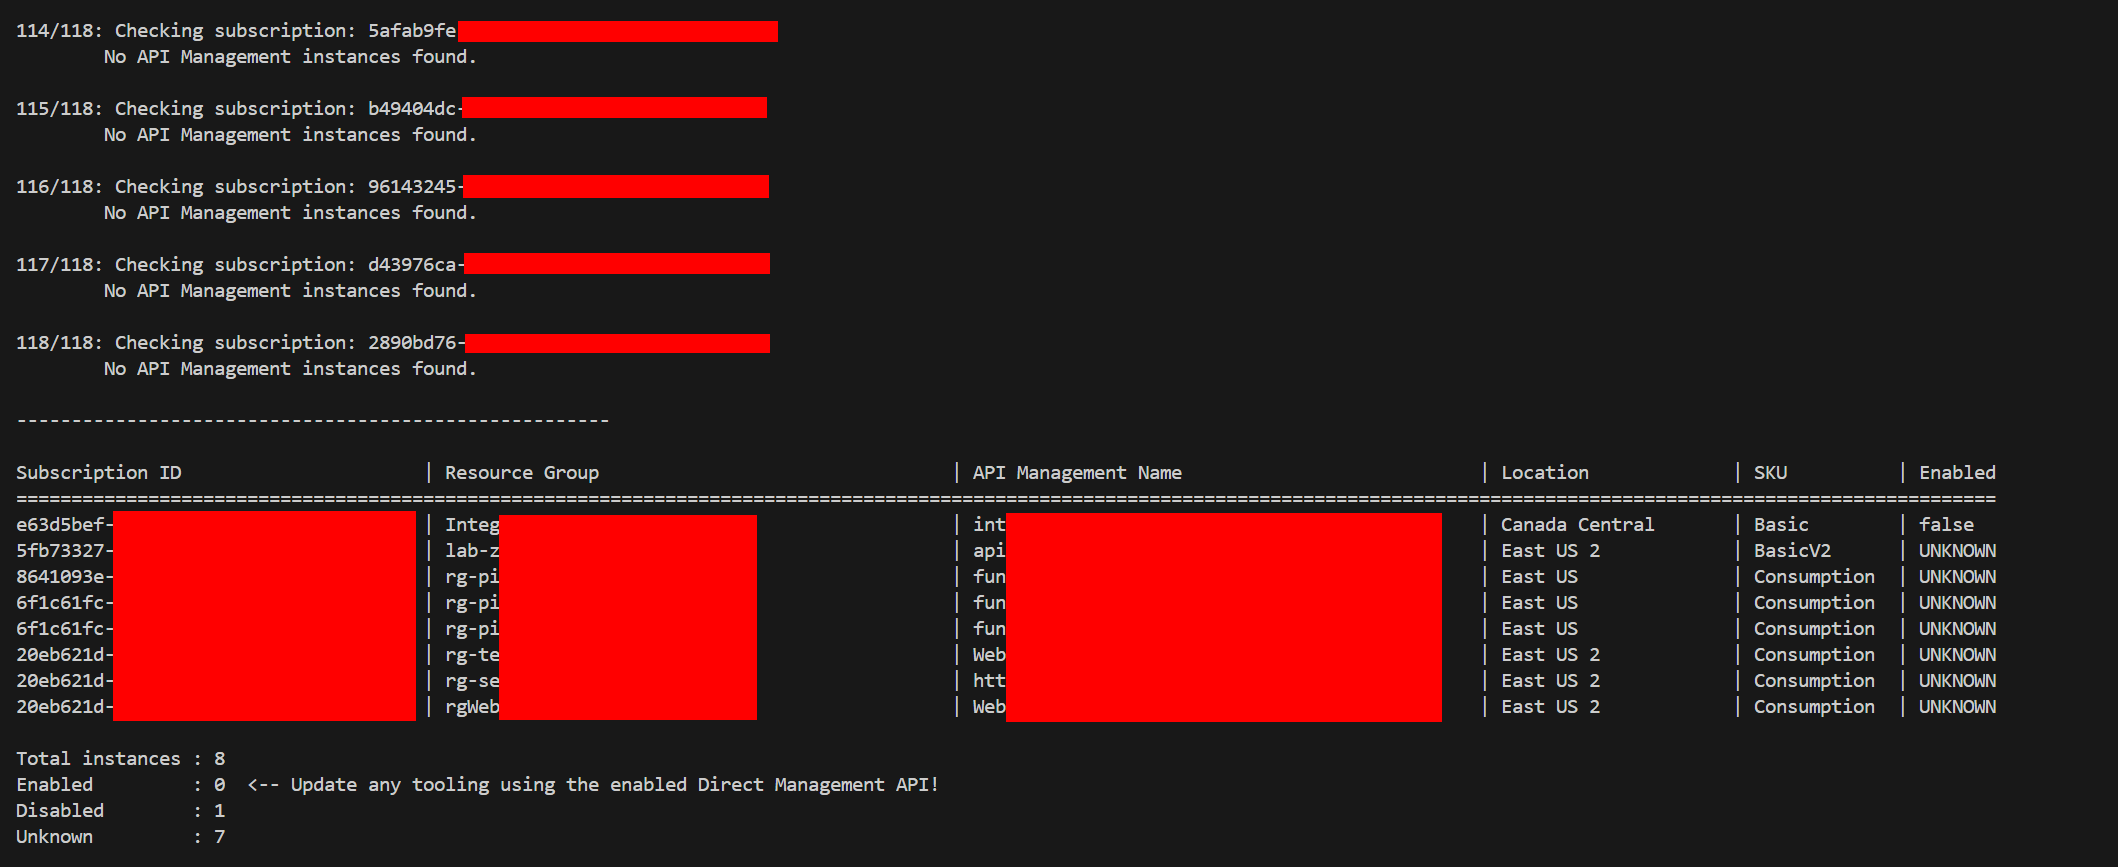
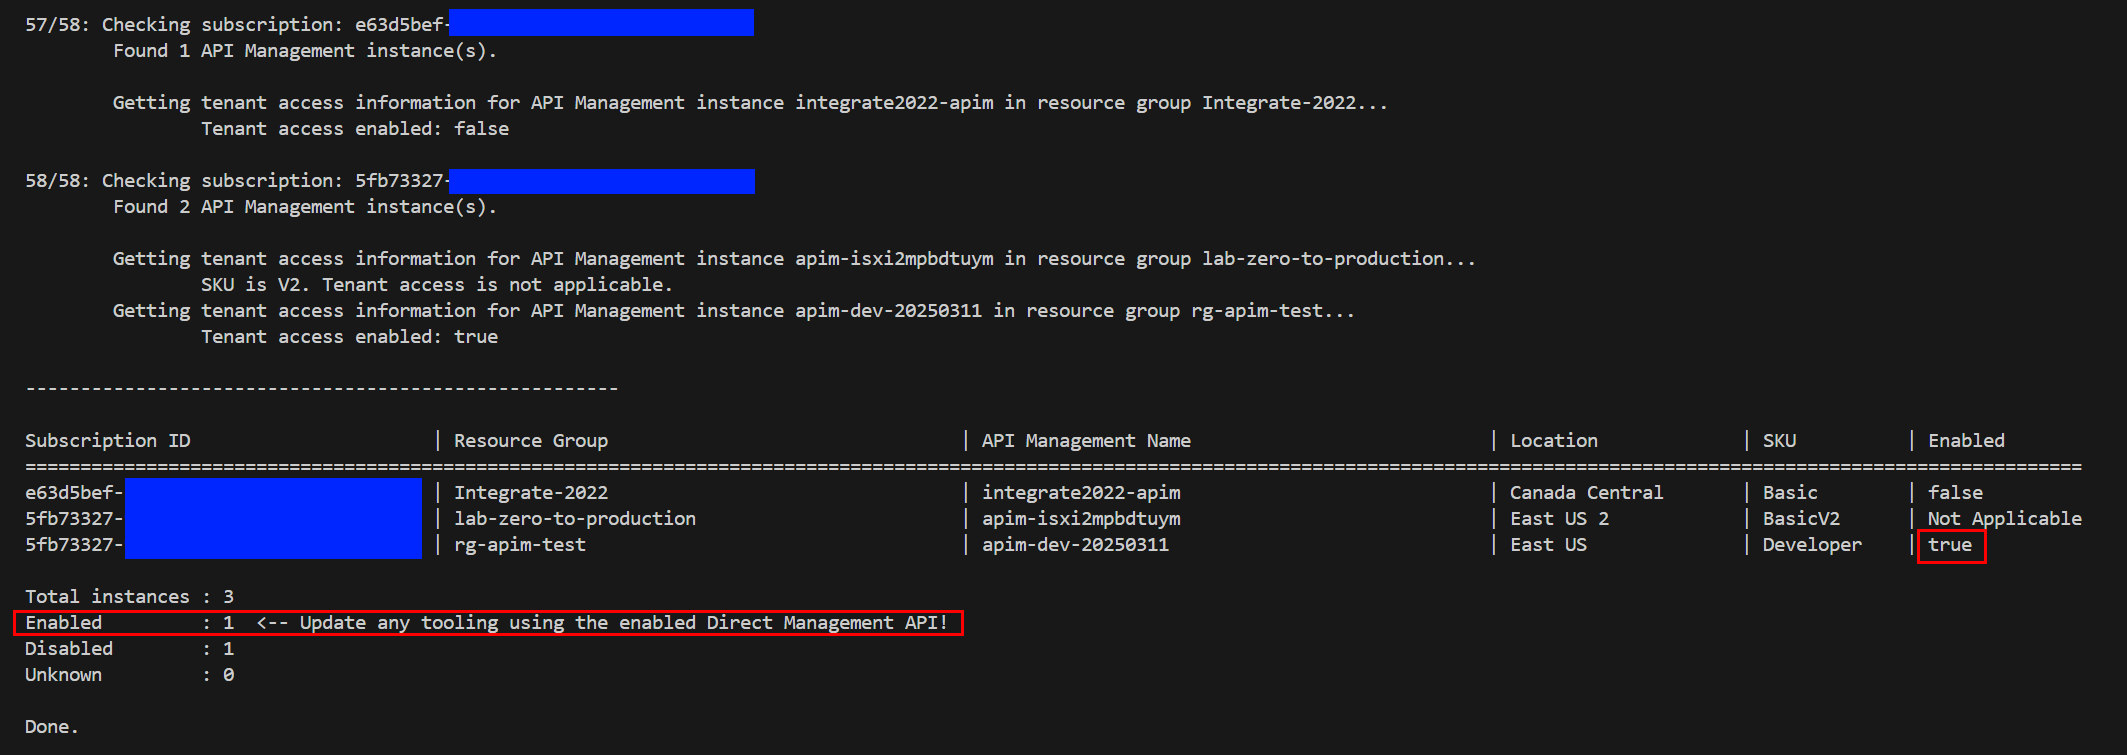
Account for V2 SKUs

Changed region(s): [[0.0, 0.5179, 0.9972, 0.9748], [0.0, 0.0, 0.6856, 0.457]]

diff --git a/README.md b/README.md
@@ -2,7 +2,7 @@
 
 The Direct management API Management REST API is deprecated and will be [retired in March 2025](https://learn.microsoft.com/rest/api/apimanagement/apimanagementrest/api-management-rest).
 
-This repo helps discover which API Management in your instances have this API enabled.
+This repo helps discover which API Management in your instances have this API enabled. The new V2 SKUs are not affected by this.
 
 ## Execution
 
